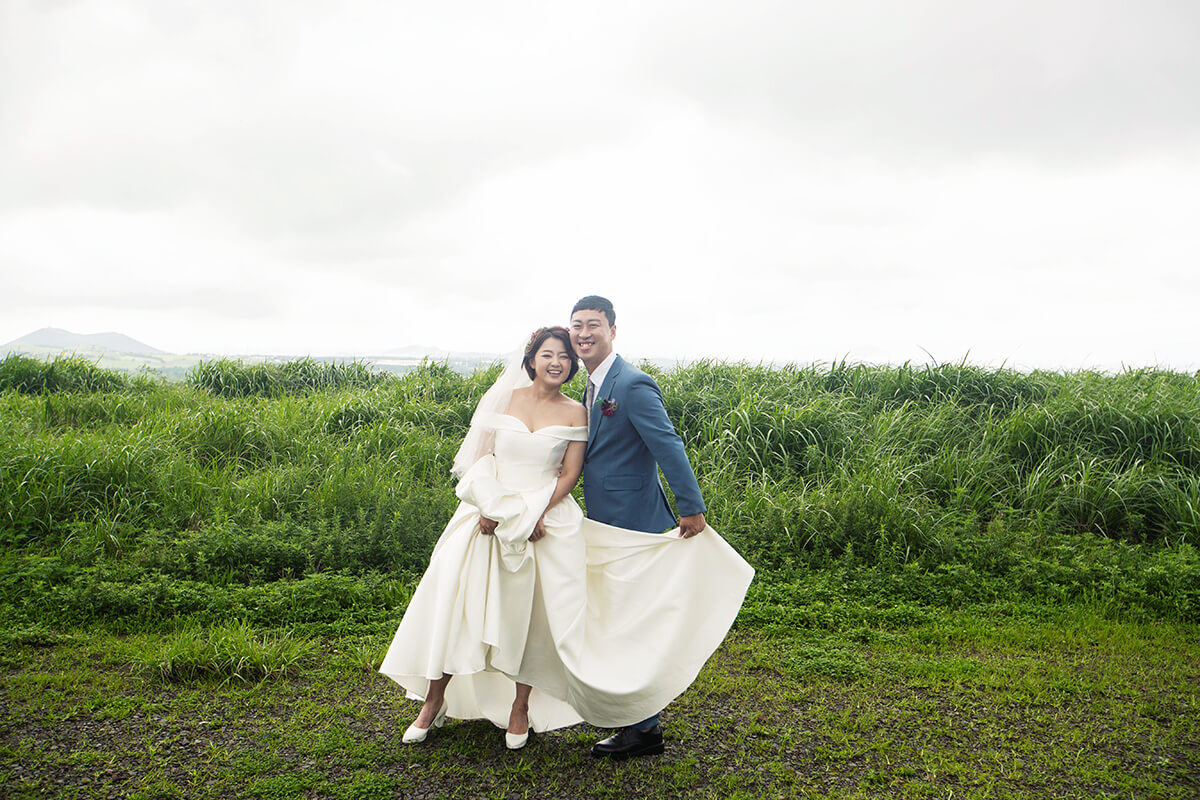
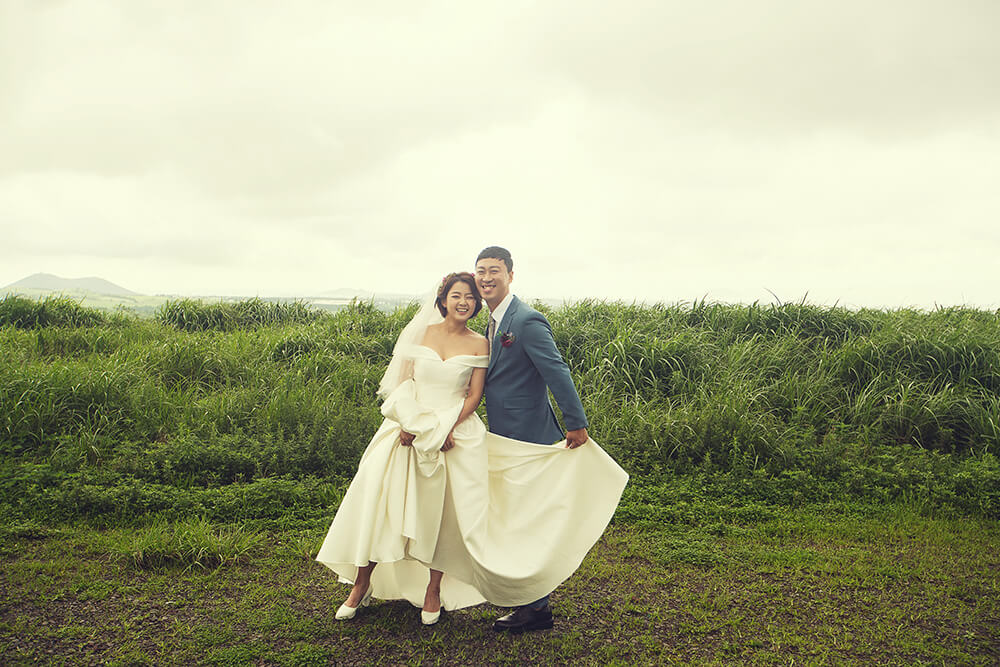
이미지 보정본으로 갈아끼움

diff --git a/index.html b/index.html
@@ -74,11 +74,11 @@
         <section class="hero">
             <div class="hero-slider hero-slider-s1">
                 <div class="slide-item">
-                    <img src="images/slider/CROM8498.jpg" alt class="slider-bg">
+                    <img src="images/slider/slider1.jpg" alt class="slider-bg">
                 </div>
 
                 <div class="slide-item">
-                    <img src="images/slider/GRAY9767_k.jpg" alt class="slider-bg">
+                    <img src="images/slider/slider2.jpg" alt class="slider-bg">
                 </div>
 
                 <div class="slide-item">
@@ -118,7 +118,8 @@
         </section>
         <!-- end of hero slider -->
         <!-- start count-down-section -->
-        <section class="count-down-section section-padding parallax" data-bg-image="images/wedimg2.png" data-speed="7">
+        <section class="count-down-section section-padding parallax" data-bg-image="images/countdown_bg.jpg"
+            data-speed="7">
             <div class="container">
                 <div class="row">
                     <div class="col col-md-4">
@@ -307,53 +308,40 @@
                     <div class="col col-xs-12 sortable-gallery">
                         <div class="gallery-container gallery-fancybox masonry-gallery">
                             <div class="grid wedding">
-                                <a href="images/gallery/CROM7175.jpg" class="fancybox" data-fancybox-group="gall-1">
-                                    <img src="images/gallery/CROM7175.jpg" alt class="img img-responsive">
-                                </a>
-                            </div>
-                            <div class="grid wedding ceremony">
-                                <a href="images/gallery/CROM8655_k.jpg" class="fancybox" data-fancybox-group="gall-1">
-                                    <img src="images/gallery/CROM8655_k.jpg" alt class="img img-responsive">
-                                </a>
-                            </div>
-                            <div class="grid ceremony eudcation">
-                                <a href="images/gallery/GRAY0714_s.jpg" class="fancybox" data-fancybox-group="gall-1">
-                                    <img src="images/gallery/GRAY0714_s.jpg" alt class="img img-responsive">
-                                </a>
-                            </div>
-                            <div class="grid wedding party">
-                                <a href="images/gallery/GRAY1025.jpg" class="fancybox" data-fancybox-group="gall-1">
-                                    <img src="images/gallery/GRAY1025.jpg" alt class="img img-responsive">
-                                </a>
-                            </div>
-                            <div class="grid ceremony">
-                                <a href="images/gallery/GRAY1299_s.jpg" class="fancybox" data-fancybox-group="gall-1">
-                                    <img src="images/gallery/GRAY1299_s.jpg" alt class="img img-responsive">
-                                </a>
-                            </div>
-                            <div class="grid party">
                                 <a href="images/gallery/GRAY9240.jpg" class="fancybox" data-fancybox-group="gall-1">
                                     <img src="images/gallery/GRAY9240.jpg" alt class="img img-responsive">
                                 </a>
                             </div>
+                            <div class="grid wedding ceremony">
+                                <a href="images/gallery/CROM6947.jpg" class="fancybox" data-fancybox-group="gall-1">
+                                    <img src="images/gallery/CROM6947.jpg" alt class="img img-responsive">
+                                </a>
+                            </div>
+                            <div class="grid ceremony eudcation">
+                                <a href="images/gallery/CROM7669.jpg" class="fancybox" data-fancybox-group="gall-1">
+                                    <img src="images/gallery/CROM7669.jpg" alt class="img img-responsive">
+                                </a>
+                            </div>
+                            <div class="grid wedding party">
+                                <a href="images/gallery/CROM8209.jpg" class="fancybox" data-fancybox-group="gall-1">
+                                    <img src="images/gallery/CROM8209.jpg" alt class="img img-responsive">
+                                </a>
+                            </div>
+                            <div class="grid party">
+                                <a href="images/gallery/GRAY1772.jpg" class="fancybox" data-fancybox-group="gall-1">
+                                    <img src="images/gallery/GRAY1772.jpg" alt class="img img-responsive">
+                                </a>
+                            </div>
                             <div class="grid wedding">
-                                <a href="images/gallery/XW0B1485_k.jpg" class="fancybox" data-fancybox-group="gall-1">
-                                    <img src="images/gallery/XW0B1485_k.jpg" alt class="img img-responsive">
+                                <a href="images/gallery/GRAY0714.jpg" class="fancybox" data-fancybox-group="gall-1">
+                                    <img src="images/gallery/GRAY0714.jpg" alt class="img img-responsive">
                                 </a>
                             </div>
                             <div class="grid ceremony">
-                                <!--  <a href="images/gallery/img-8.jpg" class="fancybox" data-fancybox-group="gall-1">
-                                    <img src="images/gallery/img-8.jpg" alt class="img img-responsive">
-                                </a> -->
-                                <a href="images/gallery/CROM7706.jpg" class="fancybox" data-fancybox-group="gall-1">
-                                    <img src="images/gallery/CROM7706.jpg" alt class="img img-responsive">
+                                <a href="images/gallery/GRAY0939.jpg" class="fancybox" data-fancybox-group="gall-1">
+                                    <img src="images/gallery/GRAY0939.jpg" alt class="img img-responsive">
                                 </a>
 
-                            </div>
-                            <div class="grid ceremony">
-                                <a href="images/gallery/GRAY0170.jpg" class="fancybox" data-fancybox-group="gall-1">
-                                    <img src="images/gallery/GRAY0170.jpg" alt class="img img-responsive">
-                                </a>
                             </div>
                             <div class="grid ceremony">
                                 <a href="images/gallery/GRAY1138.jpg" class="fancybox" data-fancybox-group="gall-1">
@@ -361,13 +349,23 @@
                                 </a>
                             </div>
                             <div class="grid ceremony">
-                                <a href="images/gallery/GRAY1772_s.jpg" class="fancybox" data-fancybox-group="gall-1">
-                                    <img src="images/gallery/GRAY1772_s.jpg" alt class="img img-responsive">
+                                <a href="images/gallery/GRAY1299.jpg" class="fancybox" data-fancybox-group="gall-1">
+                                    <img src="images/gallery/GRAY1299.jpg" alt class="img img-responsive">
                                 </a>
                             </div>
                             <div class="grid ceremony">
-                                <a href="images/gallery/GRAY9571_k.jpg" class="fancybox" data-fancybox-group="gall-1">
-                                    <img src="images/gallery/GRAY9571_k.jpg" alt class="img img-responsive">
+                                <a href="images/gallery/GRAY9240.jpg" class="fancybox" data-fancybox-group="gall-1">
+                                    <img src="images/gallery/GRAY9240.jpg" alt class="img img-responsive">
+                                </a>
+                            </div>
+                            <div class="grid ceremony">
+                                <a href="images/gallery/GRAY9678.jpg" class="fancybox" data-fancybox-group="gall-1">
+                                    <img src="images/gallery/GRAY9678.jpg" alt class="img img-responsive">
+                                </a>
+                            </div>
+                            <div class="grid ceremony">
+                                <a href="images/gallery/XW0B1458.jpg" class="fancybox" data-fancybox-group="gall-1">
+                                    <img src="images/gallery/XW0B1458.jpg" alt class="img img-responsive">
                                 </a>
                             </div>
                         </div>

diff --git a/css/style.css b/css/style.css
@@ -2148,7 +2148,7 @@ a:focus {
 
 .count-down-section:before {
   content: "";
-  background-color: rgba(0, 0, 0, 0.35);
+  background-color: rgba(0, 0, 0, 0.1);
   width: 100%;
   height: 100%;
   position: absolute;
